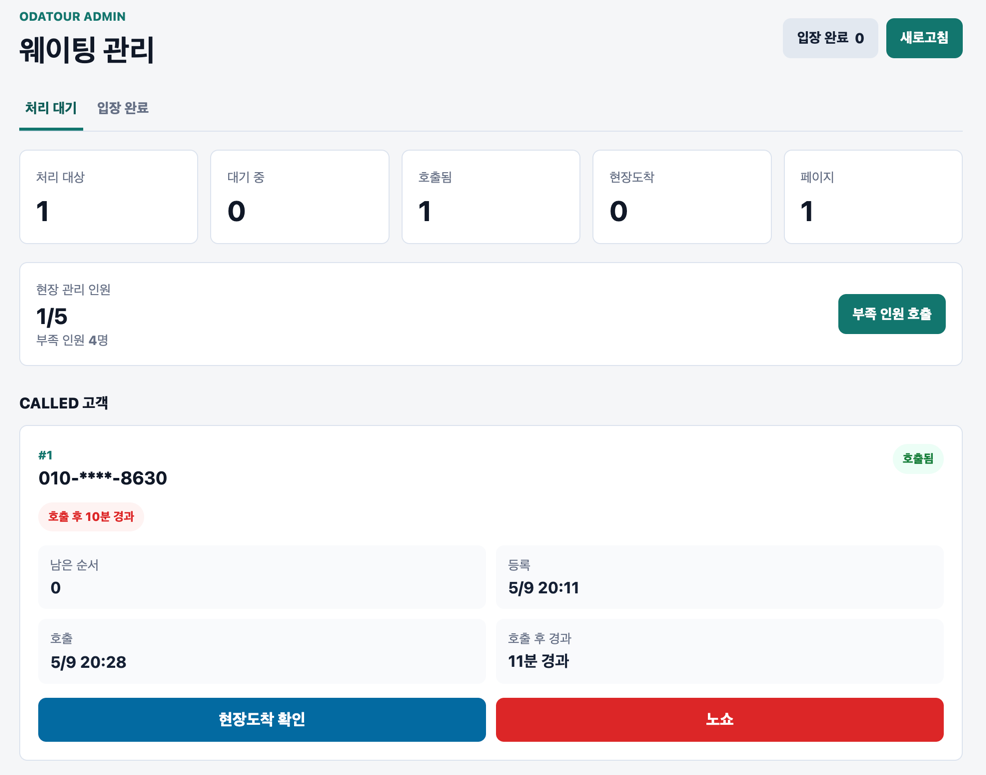
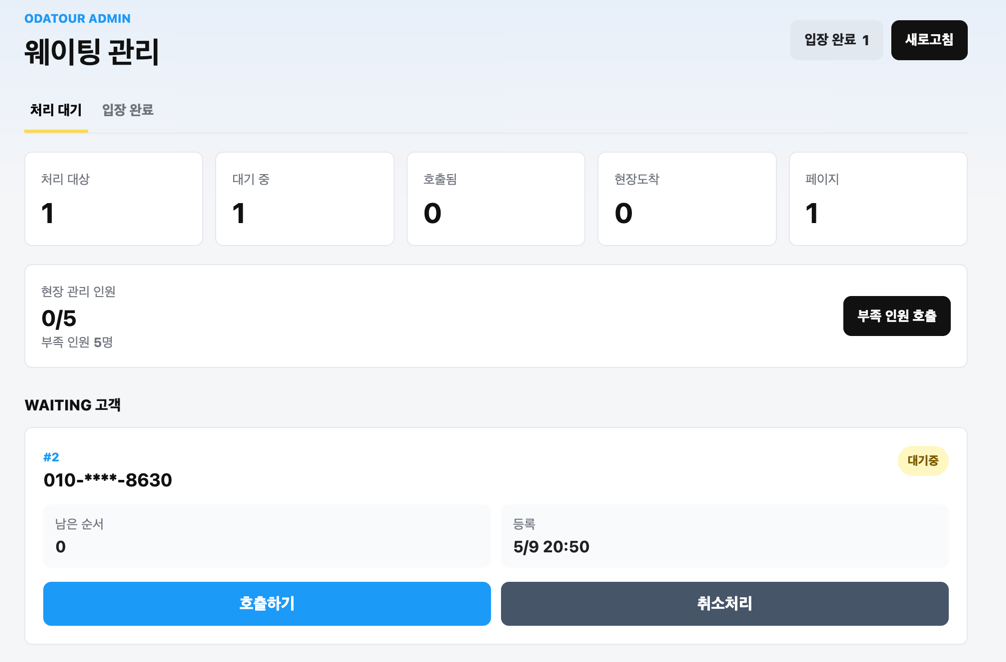
feat: refresh waiting registration page

diff --git a/src/main/resources/static/css/app.css b/src/main/resources/static/css/app.css
@@ -1,16 +1,18 @@
 :root {
-    --bg: #f5f7fb;
+    --bg: #f7f8fb;
     --surface: #ffffff;
-    --surface-strong: #111827;
-    --text: #152033;
-    --muted: #667085;
-    --line: #dce3ee;
-    --primary: #0f766e;
-    --primary-strong: #115e59;
-    --accent: #f59e0b;
-    --danger: #dc2626;
-    --success: #15803d;
-    --shadow: 0 20px 50px rgba(21, 32, 51, 0.12);
+    --surface-strong: #111111;
+    --text: #202124;
+    --muted: #6f747b;
+    --line: #e4e7ec;
+    --primary: #111111;
+    --primary-strong: #000000;
+    --brand-blue: #1a9af7;
+    --accent: #ffd84d;
+    --accent-strong: #f4c400;
+    --danger: #e5483f;
+    --success: #179c6a;
+    --shadow: 0 22px 46px rgba(17, 17, 17, 0.08);
 }
 
 * {
@@ -22,8 +24,10 @@ body {
     font-family: system-ui, -apple-system, BlinkMacSystemFont, "Segoe UI", sans-serif;
     color: var(--text);
     background:
-        linear-gradient(180deg, rgba(15, 118, 110, 0.10), transparent 280px),
+        radial-gradient(circle at 18px 18px, rgba(255, 216, 77, 0.36) 0 2px, transparent 2px 100%),
+        linear-gradient(180deg, rgba(26, 154, 247, 0.10), transparent 260px),
         var(--bg);
+    background-size: 28px 28px, auto, auto;
 }
 
 button,
@@ -42,17 +46,38 @@ input {
 .mobile-shell {
     width: min(100%, 480px);
     margin: 0 auto;
-    padding: 28px 18px 40px;
+    padding: 22px 18px 40px;
 }
 
 .hero-panel,
 .status-hero {
-    padding: 30px 4px 22px;
+    padding: 24px 4px 22px;
+}
+
+.oda-brand {
+    display: inline-flex;
+    align-items: center;
+    gap: 10px;
+    margin-bottom: 26px;
+    padding: 6px 0;
+}
+
+.oda-brand img {
+    display: block;
+    width: 34px;
+    height: 34px;
+}
+
+.oda-brand strong {
+    color: var(--surface-strong);
+    font-size: 22px;
+    font-weight: 900;
+    letter-spacing: 0;
 }
 
 .eyebrow {
     margin: 0 0 10px;
-    color: var(--primary);
+    color: var(--brand-blue);
     font-size: 12px;
     font-weight: 800;
     letter-spacing: 0;
@@ -74,14 +99,15 @@ h1 {
 }
 
 .hero-metric {
-    display: flex;
-    align-items: center;
-    justify-content: space-between;
+    display: grid;
+    grid-template-columns: repeat(2, minmax(0, 1fr));
+    gap: 12px;
     margin-top: 24px;
     padding: 16px 18px;
-    border: 1px solid rgba(15, 118, 110, 0.18);
+    border: 1px solid rgba(17, 17, 17, 0.12);
     border-radius: 8px;
-    background: rgba(255, 255, 255, 0.74);
+    background: #ffffff;
+    box-shadow: 0 12px 30px rgba(17, 17, 17, 0.07);
 }
 
 .hero-metric span,
@@ -93,7 +119,9 @@ h1 {
 }
 
 .hero-metric strong {
-    color: var(--primary-strong);
+    display: block;
+    margin-top: 4px;
+    color: var(--surface-strong);
     font-size: 20px;
 }
 
@@ -131,9 +159,9 @@ h1 {
 }
 
 .form-alert.success {
-    border-color: rgba(22, 163, 74, 0.24);
-    background: #f0fdf4;
-    color: #166534;
+    border-color: rgba(23, 156, 106, 0.24);
+    background: #eefcf6;
+    color: #087a4f;
 }
 
 .field {
@@ -159,8 +187,8 @@ h1 {
 }
 
 .field input:focus {
-    border-color: var(--primary);
-    box-shadow: 0 0 0 4px rgba(15, 118, 110, 0.12);
+    border-color: var(--brand-blue);
+    box-shadow: 0 0 0 4px rgba(26, 154, 247, 0.14);
 }
 
 .agree-box {
@@ -177,7 +205,7 @@ h1 {
     width: 20px;
     height: 20px;
     margin: 1px 0 0;
-    accent-color: var(--primary);
+    accent-color: var(--brand-blue);
 }
 
 .agree-box span {
@@ -211,14 +239,16 @@ h1 {
 
 .primary-button {
     width: 100%;
-    background: var(--primary);
-    color: #fff;
+    background: var(--accent);
+    color: var(--surface-strong);
     font-size: 16px;
+    box-shadow: 0 14px 28px rgba(244, 196, 0, 0.22);
 }
 
 .primary-button:hover,
 .small-button:hover {
-    background: var(--primary-strong);
+    background: var(--accent-strong);
+    color: var(--surface-strong);
 }
 
 .small-button:disabled {
@@ -276,13 +306,13 @@ h1 {
 
 .info-label,
 .queue-number {
-    color: var(--primary);
+    color: var(--brand-blue);
     font-size: 12px;
     font-weight: 800;
 }
 
 .status-hero h1 span {
-    color: var(--primary);
+    color: var(--brand-blue);
 }
 
 .status-badge {
@@ -299,23 +329,23 @@ h1 {
 }
 
 .status-waiting {
-    background: #fff7ed;
-    color: #c2410c;
+    background: #fff7c2;
+    color: #7c5a00;
 }
 
 .status-called {
-    background: #ecfdf5;
-    color: var(--success);
+    background: #eaf6ff;
+    color: #006fba;
 }
 
 .status-arrived {
-    background: #f0f9ff;
-    color: #0369a1;
+    background: #f2f2f2;
+    color: var(--surface-strong);
 }
 
 .status-entered {
-    background: #eff6ff;
-    color: #1d4ed8;
+    background: #eefcf6;
+    color: #087a4f;
 }
 
 .status-no_showed {
@@ -352,7 +382,9 @@ h1 {
 }
 
 .admin-page {
-    background: #f4f6f8;
+    background:
+        linear-gradient(180deg, rgba(26, 154, 247, 0.08), transparent 220px),
+        #f4f6f8;
 }
 
 .admin-shell {
@@ -421,7 +453,7 @@ h1 {
 }
 
 .tab-link.active {
-    border-bottom-color: var(--primary);
+    border-bottom-color: var(--accent);
     color: var(--primary-strong);
 }
 
@@ -577,11 +609,11 @@ h1 {
 }
 
 .action-button.notify {
-    background: #0f766e;
+    background: var(--brand-blue);
 }
 
 .action-button.arrive {
-    background: #0369a1;
+    background: var(--primary);
 }
 
 .action-button.no-show {
@@ -619,9 +651,9 @@ h1 {
 }
 
 .page-number.active {
-    border-color: var(--primary);
-    background: var(--primary);
-    color: #fff;
+    border-color: var(--accent);
+    background: var(--accent);
+    color: var(--surface-strong);
 }
 
 .page-link.disabled {

diff --git a/src/main/resources/templates/waitings/new.html b/src/main/resources/templates/waitings/new.html
@@ -3,18 +3,28 @@
 <head>
     <meta charset="utf-8">
     <meta name="viewport" content="width=device-width, initial-scale=1">
-    <title>오다투어 웨이팅 등록</title>
+    <title>오다투어 VR 웨이팅 등록</title>
     <link rel="stylesheet" th:href="@{/css/app.css}">
 </head>
 <body class="page user-page">
 <main class="mobile-shell">
     <section class="hero-panel">
+        <div class="oda-brand">
+            <img th:src="@{/images/icon.png}" src="/images/icon.png" alt="odatour">
+            <strong>odatour</strong>
+        </div>
         <p class="eyebrow">ODATOUR BOOTH</p>
-        <h1>웨이팅 등록</h1>
+        <h1>VR 웨이팅 등록</h1>
         <p class="lead">휴대폰 번호를 남겨주시면 입장 순서가 가까워졌을 때 카카오톡으로 알려드립니다.</p>
         <div class="hero-metric">
-            <span>예상 대기</span>
-            <strong th:text="|약 ${estimatedWaitMinutes}분|">약 15분</strong>
+            <span>
+                현재 대기팀
+                <strong th:text="|${estimatedWaitTeams}팀|">5팀</strong>
+            </span>
+            <span>
+                예상 대기시간
+                <strong th:text="|약 ${estimatedWaitMinutes}분|">약 15분</strong>
+            </span>
         </div>
     </section>
 

diff --git a/src/main/java/com/odatour/waiting/controller/WaitingPageController.java b/src/main/java/com/odatour/waiting/controller/WaitingPageController.java
@@ -41,7 +41,7 @@ public class WaitingPageController {
         if (!model.containsAttribute("phoneNumber")) {
             model.addAttribute("phoneNumber", "");
         }
-        model.addAttribute("estimatedWaitMinutes", estimatedWaitMinutes(waitingService.activeWaitings().size()));
+        addNewWaitingMetrics(model);
         return "waitings/new";
     }
 
@@ -58,12 +58,12 @@ public class WaitingPageController {
             model.addAttribute("errorMessage", "이미 웨이팅 중인 휴대폰 번호입니다.");
             model.addAttribute("activeWaitingId", exception.activeWaiting().id());
             model.addAttribute("phoneNumber", phoneNumber);
-            model.addAttribute("estimatedWaitMinutes", estimatedWaitMinutes(waitingService.activeWaitings().size()));
+            addNewWaitingMetrics(model);
             return "waitings/new";
         } catch (IllegalArgumentException exception) {
             model.addAttribute("errorMessage", exception.getMessage());
             model.addAttribute("phoneNumber", phoneNumber);
-            model.addAttribute("estimatedWaitMinutes", estimatedWaitMinutes(waitingService.activeWaitings().size()));
+            addNewWaitingMetrics(model);
             return "waitings/new";
         }
     }
@@ -297,6 +297,12 @@ public class WaitingPageController {
             return 0;
         }
         return Math.max(teamCount, 0) * ESTIMATED_WAIT_MINUTES_PER_TEAM;
+    }
+
+    private void addNewWaitingMetrics(Model model) {
+        int estimatedWaitTeams = waitingService.activeWaitings().size();
+        model.addAttribute("estimatedWaitTeams", estimatedWaitTeams);
+        model.addAttribute("estimatedWaitMinutes", estimatedWaitMinutes(estimatedWaitTeams));
     }
 
     private String maskPhoneNumber(String phoneNumber) {

diff --git a/src/test/java/com/odatour/waiting/controller/WaitingPageControllerTest.java b/src/test/java/com/odatour/waiting/controller/WaitingPageControllerTest.java
@@ -57,7 +57,10 @@ class WaitingPageControllerTest {
         mockMvc.perform(get("/"))
                 .andExpect(status().isOk())
                 .andExpect(view().name("waitings/new"))
+                .andExpect(model().attribute("estimatedWaitTeams", 2))
                 .andExpect(model().attribute("estimatedWaitMinutes", 6))
+                .andExpect(content().string(containsString("VR 웨이팅 등록")))
+                .andExpect(content().string(containsString("현재 대기팀")))
                 .andExpect(content().string(containsString("data-phone-number-input")))
                 .andExpect(content().string(containsString("pattern=\"010[0-9]{8}|010-[0-9]{4}-[0-9]{4}\"")));
     }